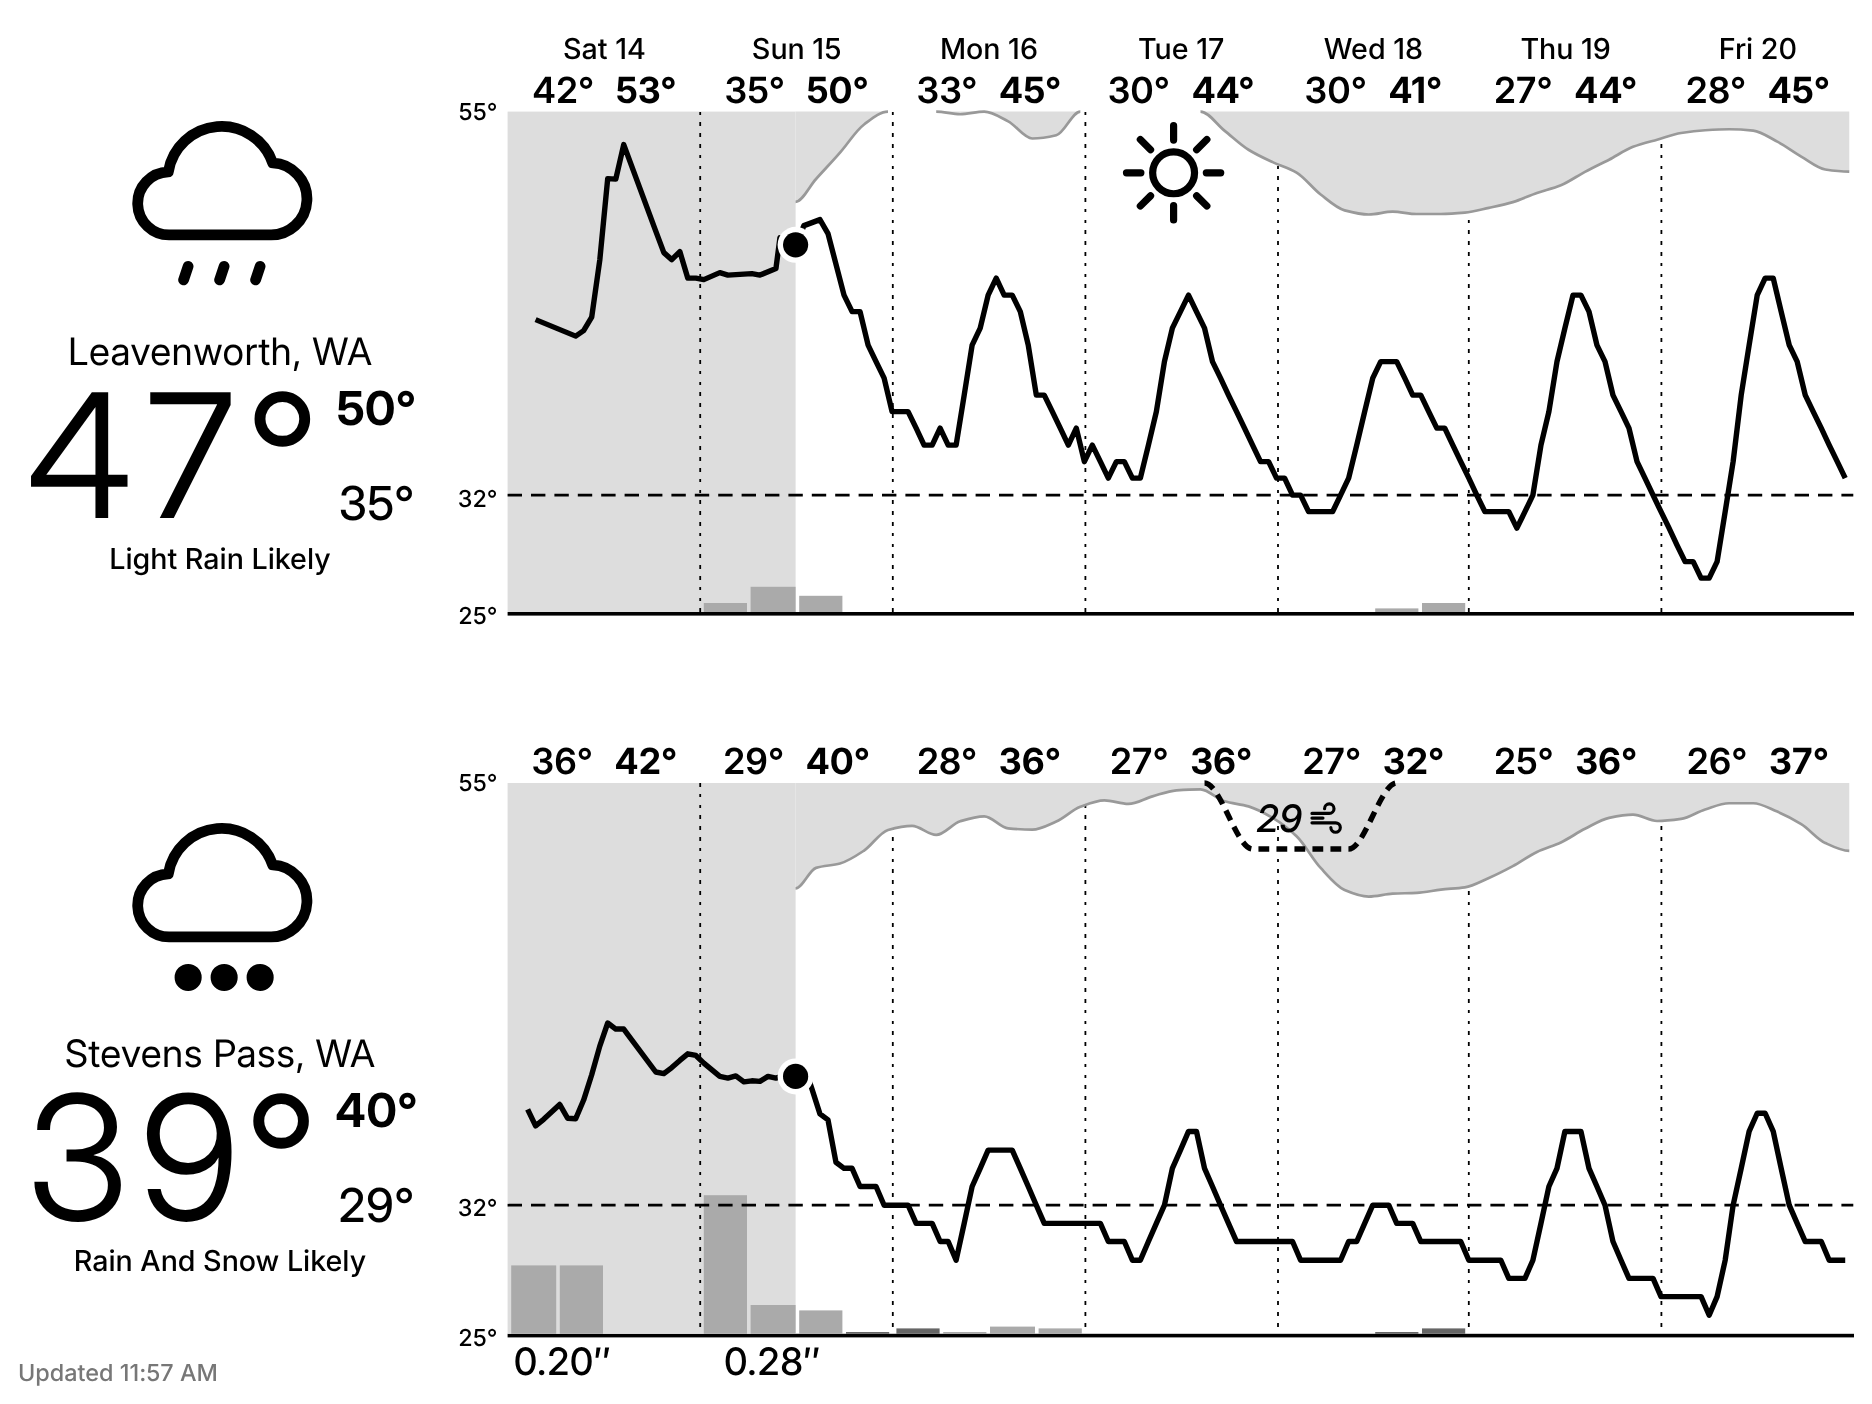
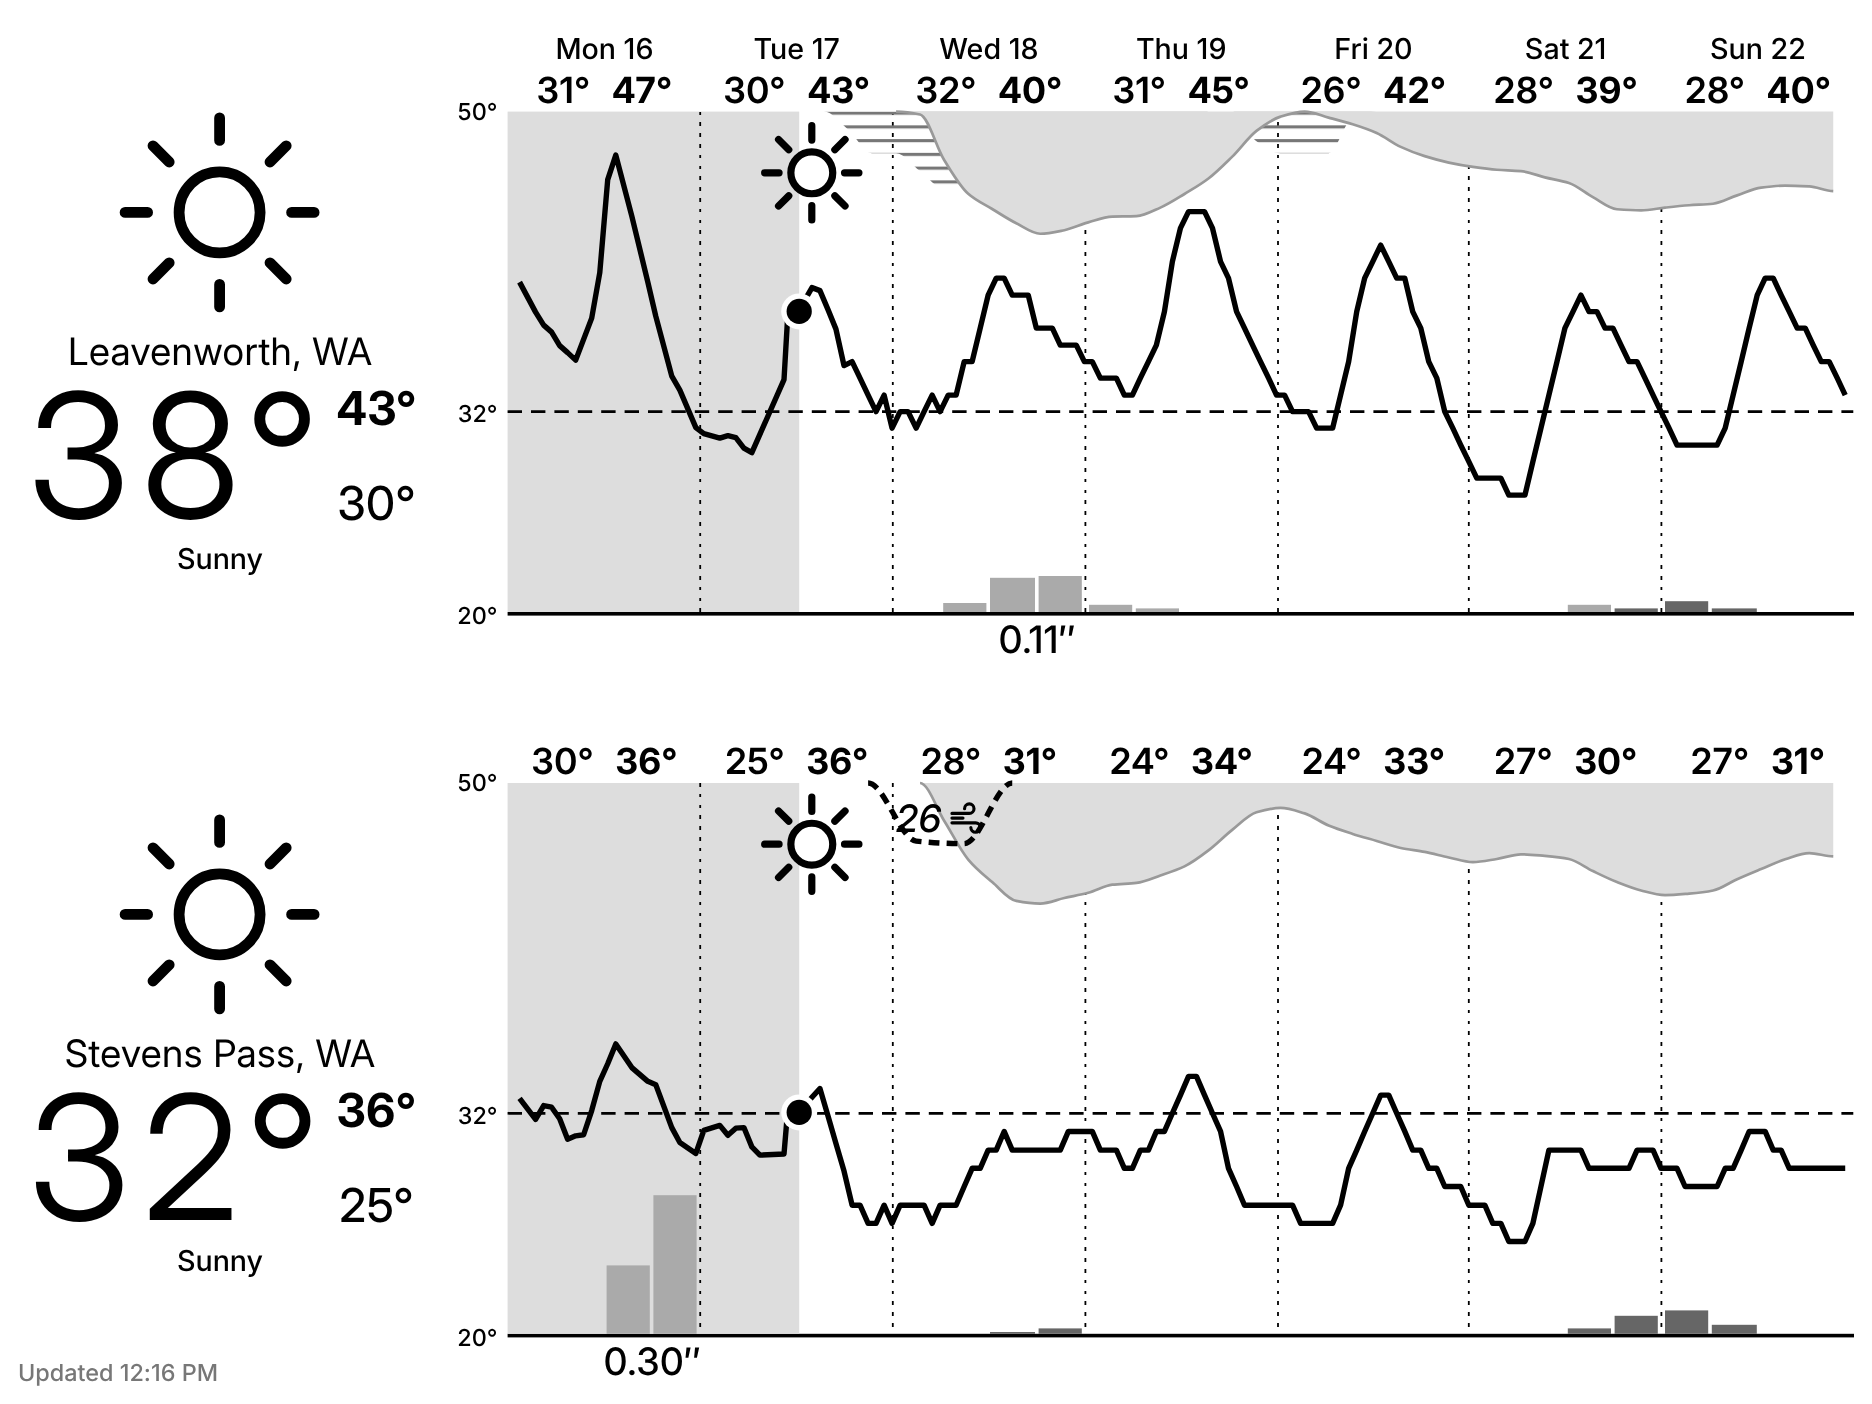
Show forecast fog as lines under the clouds, and keep the sun out of it
NWS sky cover leaves out fog, so foggy Leavenworth mornings looked clear
and got a sun. The forecast's hourly fog (patchy, areas, widespread) is now
drawn under the clouds with horizontal lines like the fog icon, and fog and
cloud together decide where the sun goes.

Claude-Session: https://claude.ai/code/session_018zBtTfGxqR6ysBZYHYeVbJ

diff --git a/server/forecast/glance_test.go b/server/forecast/glance_test.go
@@ -1001,30 +1001,30 @@ func TestFillSky(t *testing.T) {
 	add(24, 24, 10)
 	c := &Chart{}
 	c.fillSky(&grid, start, start.AddDate(0, 0, 2), start)
-	if !strings.HasPrefix(c.SkyPath, "M208.3,0L208.3,100") || !strings.HasSuffix(c.SkyPath, ",0Z") || !strings.HasPrefix(c.SkyEdge, "M208.3,100") {
-		t.Errorf("sky path = %.60s… edge %.40s…", c.SkyPath, c.SkyEdge)
+	if !strings.HasPrefix(c.CloudPath, "M208.3,0L208.3,100") || !strings.HasSuffix(c.CloudPath, ",0Z") || !strings.HasPrefix(c.CloudEdge, "M208.3,100") {
+		t.Errorf("sky path = %.60s… edge %.40s…", c.CloudPath, c.CloudEdge)
 	}
 	// The 7-hour average eases the change: the point for 1-2 AM (10 PM-5 AM: 2 overcast hours, 5
 	// clear) averages 35.7%, which hangs (35.7-25)/75 = 14.3% deep.
-	if !strings.Contains(c.SkyEdge, " 531.3,14.3") {
-		t.Errorf("edge = %s", c.SkyEdge)
+	if !strings.Contains(c.CloudEdge, " 531.3,14.3") {
+		t.Errorf("edge = %s", c.CloudEdge)
 	}
 	// Under 25% is clear: the shape ends at the first clear point, with nothing drawn after it,
 	// and the curve stays inside the band.
-	if !strings.HasSuffix(c.SkyEdge, " 593.8,0") || strings.Contains(c.SkyEdge, "-") {
-		t.Errorf("edge = %s", c.SkyEdge)
+	if !strings.HasSuffix(c.CloudEdge, " 593.8,0") || strings.Contains(c.CloudEdge, "-") {
+		t.Errorf("edge = %s", c.CloudEdge)
 	}
 	// Before the forecast starts there's no sky at all.
 	// Nothing before now: at 6 PM the shape starts at 6 PM.
 	c = &Chart{}
 	c.fillSky(&grid, start, start.AddDate(0, 0, 2), start.Add(18*time.Hour))
-	if !strings.HasPrefix(c.SkyPath, "M375,0L375,100") {
-		t.Errorf("sky path from 6 PM = %.40s…", c.SkyPath)
+	if !strings.HasPrefix(c.CloudPath, "M375,0L375,100") {
+		t.Errorf("sky path from 6 PM = %.40s…", c.CloudPath)
 	}
 	c = &Chart{}
 	c.fillSky(&GridData{}, start, start.AddDate(0, 0, 2), start)
-	if c.SkyPath != "" || c.SkyEdge != "" {
-		t.Errorf("empty sky = %q / %q", c.SkyPath, c.SkyEdge)
+	if c.CloudPath != "" || c.CloudEdge != "" {
+		t.Errorf("empty sky = %q / %q", c.CloudPath, c.CloudEdge)
 	}
 }
 
@@ -1073,5 +1073,34 @@ func TestPlaceSuns(t *testing.T) {
 	c.placeSuns(47.5962, -120.6615, loc)
 	if len(c.Suns) != 0 {
 		t.Errorf("suns after clouding over = %v", c.Suns)
+	}
+}
+
+// Nov 17 in Leavenworth: sky cover 3-5% all day, but areas of fog until 10 AM.
+func TestFogCountsAsCover(t *testing.T) {
+	loc, _ := time.LoadLocation("America/Los_Angeles")
+	start := time.Date(2026, 11, 17, 0, 0, 0, 0, loc)
+	grid := GridData{}
+	clear := 4.0
+	grid.Properties.SkyCover.Values = append(grid.Properties.SkyCover.Values, struct {
+		ValidTime string   `json:"validTime"`
+		Value     *float64 `json:"value"`
+	}{start.Format(time.RFC3339) + "/PT48H", &clear})
+	if err := json.Unmarshal([]byte(`{"values":[{"validTime":"`+start.Format(time.RFC3339)+`/PT10H","value":[{"coverage":"areas","weather":"fog"}]}]}`), &grid.Properties.Weather); err != nil {
+		t.Fatal(err)
+	}
+	c := &Chart{}
+	c.fillSky(&grid, start, start.AddDate(0, 0, 2), start.Add(7*time.Hour))
+	if c.CloudPath != "" || c.FogPath == "" {
+		t.Errorf("clouds %q, fog %q", c.CloudPath, c.FogPath)
+	}
+	// The sun goes by fog and cloud together: covered at 7 AM, clear by noon.
+	cover := map[time.Time]float64{}
+	for _, h := range c.skyHours {
+		cover[h.t] = h.cover
+	}
+	at7, atNoon := cover[start.Add(7*time.Hour)], cover[start.Add(12*time.Hour)]
+	if at7 < clearSkyCover || atNoon >= clearSkyCover {
+		t.Errorf("cover at 7 AM %.0f, noon %.0f", at7, atNoon)
 	}
 }

diff --git a/server/forecast/chart.go b/server/forecast/chart.go
@@ -127,14 +127,12 @@ type Chart struct {
 	Bars      []Bar     `json:"bars"`       // one per 6 hours
 	Storms    []Storm   `json:"storms"`     // snow/rain totals per storm, centered under it
 	Gusts     []Storm   `json:"gusts"`      // peak gust per windy spell, centered under it
-	SkyPath   string    `json:"sky_path"`   // cloud cover hanging from the top, viewBox 0 0 1000 100 over the top band
 	Marks     []Mark    `json:"marks"`      // suns and gust labels for the top band, left to right
 	Suns      []float64 `json:"suns"`       // where a sun peeks out over a clear, sunny stretch: x, 0-100 %
 	CloudPath string    `json:"cloud_path"` // sky cover alone, without fog (mockup)
 	CloudEdge string    `json:"cloud_edge"`
 	FogPath   string    `json:"fog_path"` // fog alone, as cover (mockup)
 	FogEdge   string    `json:"fog_edge"`
-	SkyEdge   string    `json:"sky_edge"`     // the same shape's lower edge, as a line
 	WindLine  string    `json:"wind_line"`    // gusts as a curve hanging from the top: SVG path, viewBox 0 0 1000 100 over the wind band
 	HasAmount bool      `json:"has_amount"`   // any snow/rain at all in the window
 	Days      int       `json:"days"`         // columns in the chart

diff --git a/server/forecast/sky.go b/server/forecast/sky.go
@@ -16,8 +16,9 @@ const (
 )
 
 // fillSky draws the forecast's cloud cover in the chart's top band, as a shape hanging from the top
-// as deep as the sky is covered beyond clear (see cloudDepth): SkyPath is the filled shape, SkyEdge
-// its lower edge. It starts at
+// as deep as the sky is covered beyond clear (see cloudDepth): CloudPath and CloudEdge for the sky
+// cover, FogPath and FogEdge for forecast fog, which sky cover leaves out. The sun (skyHours) goes by
+// the two together. It starts at
 // now: none of the stations report clouds, so the past has none.
 func (c *Chart) fillSky(grid *GridData, start, end, now time.Time) {
 	ivs := grid.Properties.SkyCover.intervals()
@@ -93,7 +94,6 @@ func (c *Chart) fillSky(grid *GridData, start, end, now time.Time) {
 		}
 		return path, edge
 	}
-	c.SkyPath, c.SkyEdge = shape(both)
 	c.CloudPath, c.CloudEdge = shape(sky)
 	c.FogPath, c.FogEdge = shape(fog)
 }
